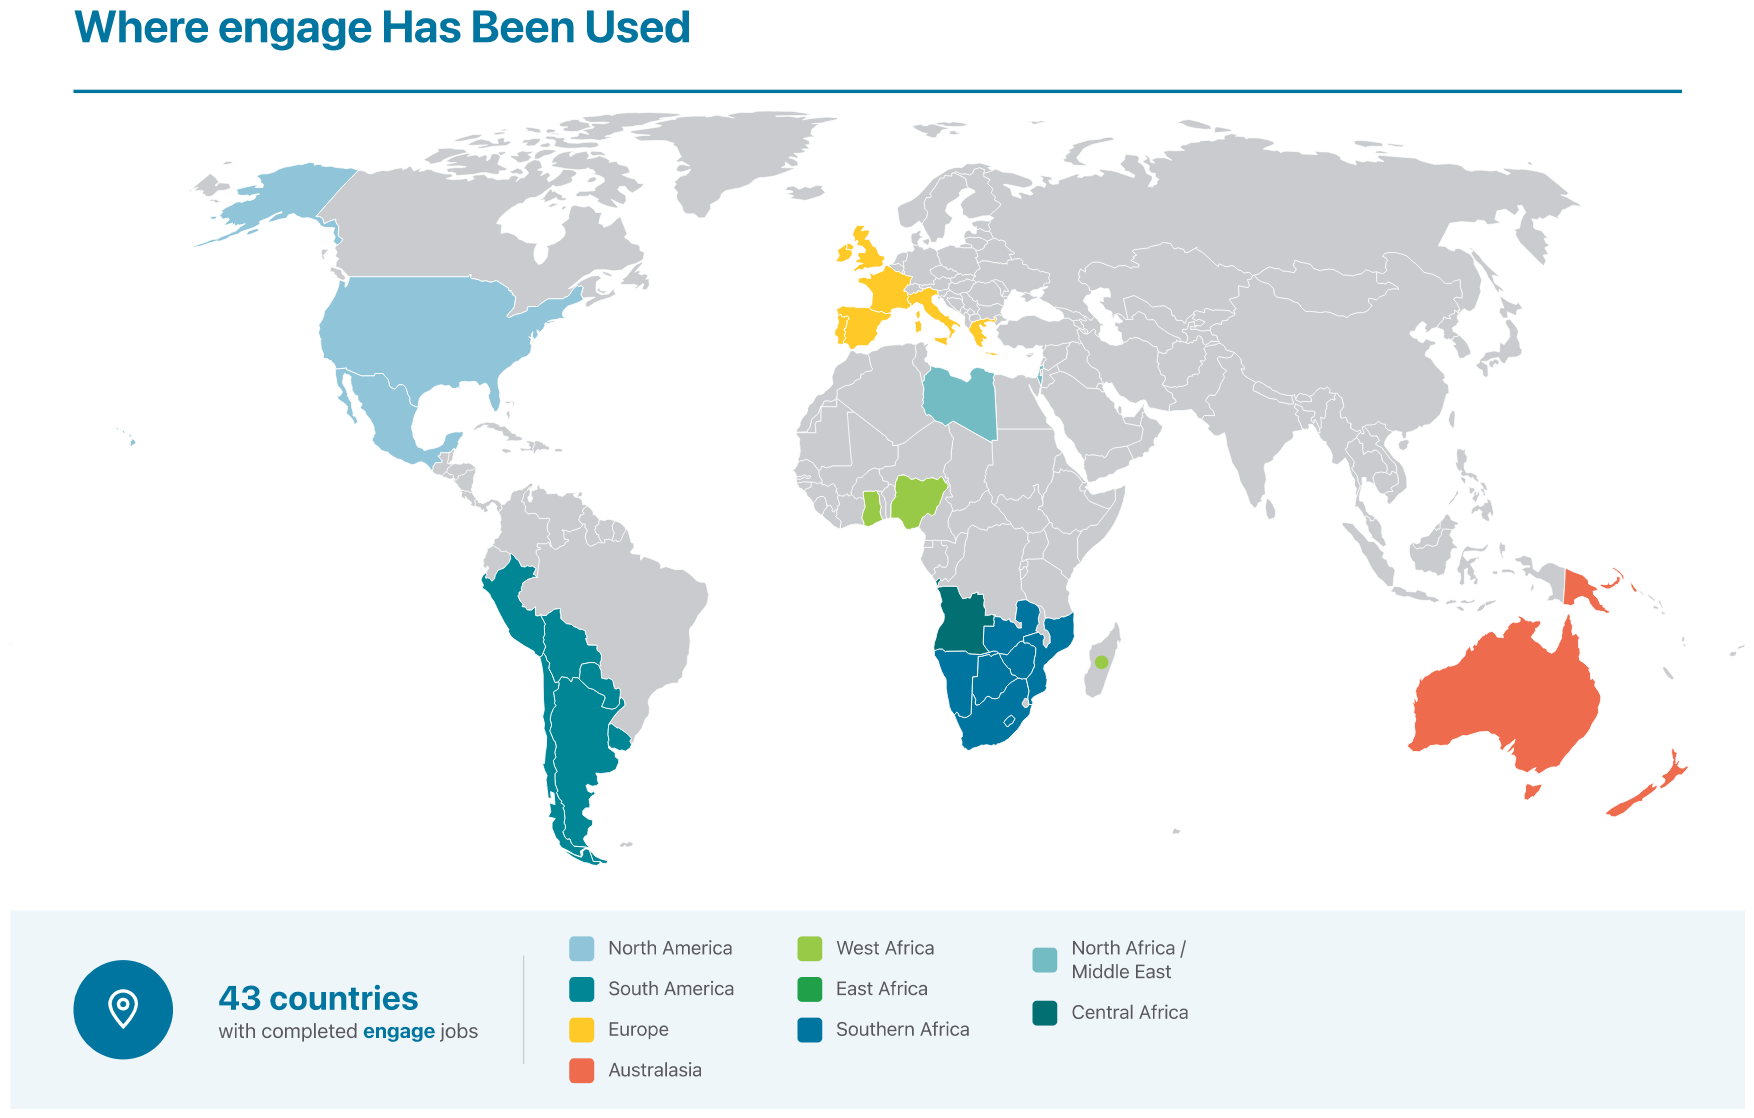
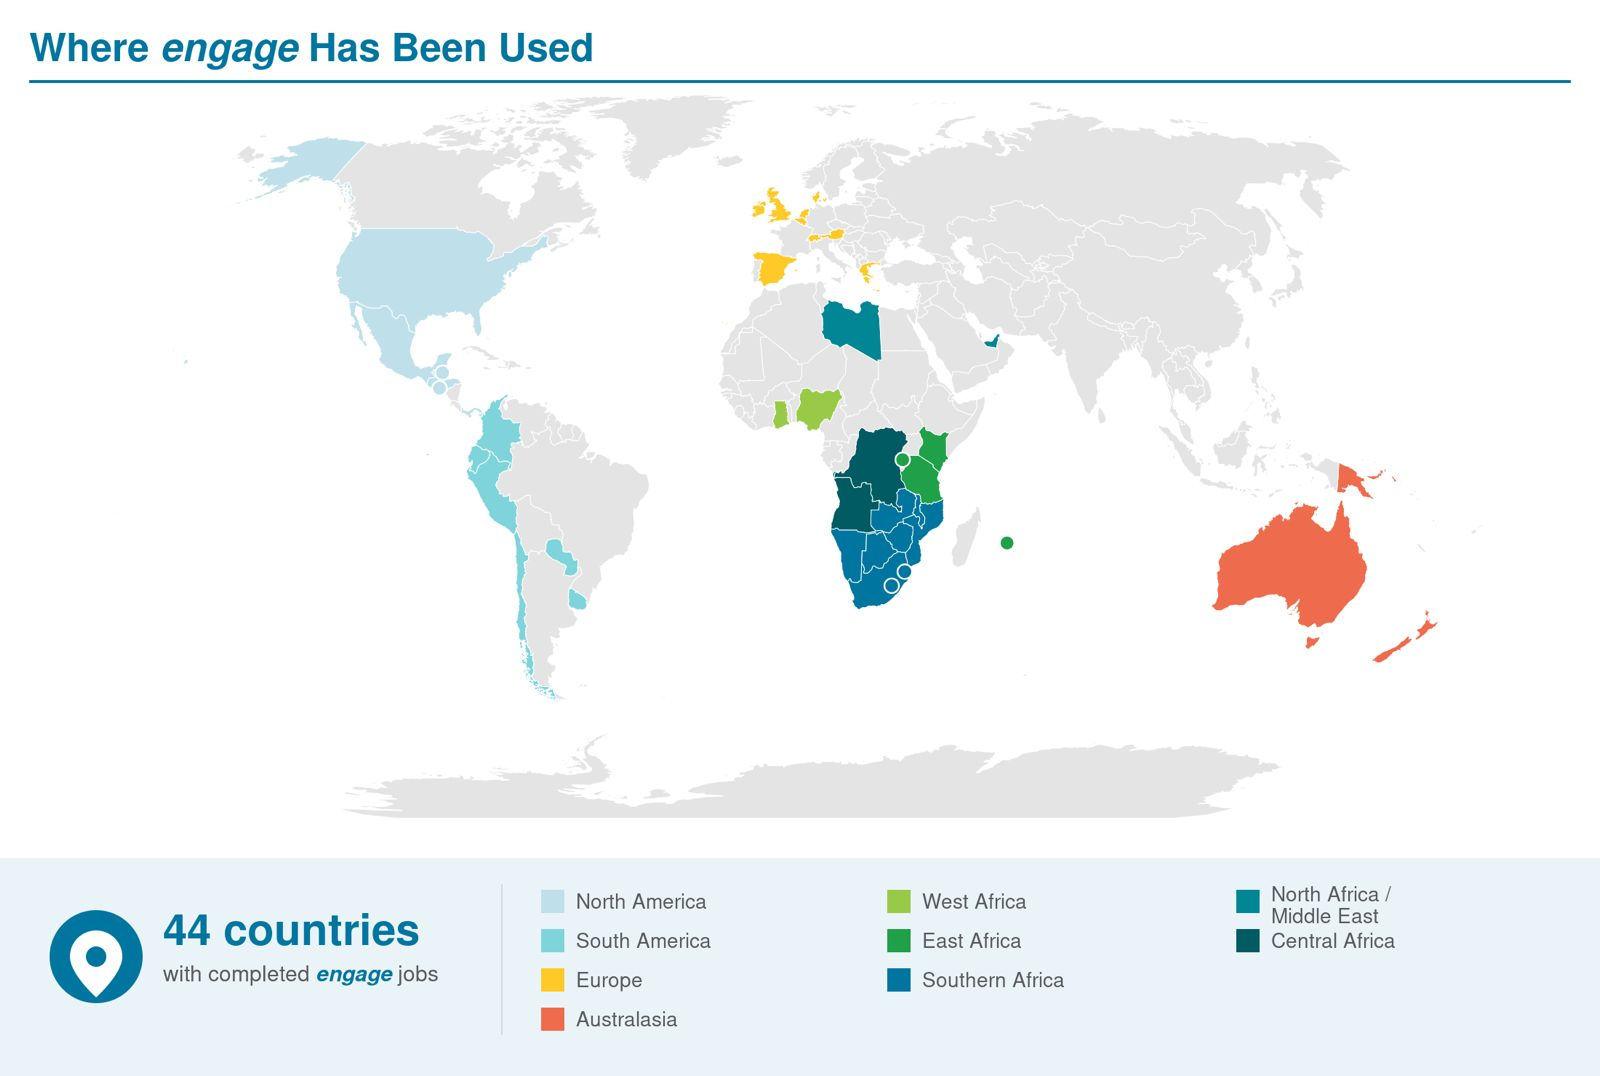
Add files via upload

diff --git a/src/assets/js/main.js b/src/assets/js/main.js
@@ -272,6 +272,36 @@ window.toggleGridCard = function (card) {
 // box stays as the fallback. Mirrors the webinar embed, but deferred rather
 // than eager.
 (function () {
+  // YouTube serves several thumbnail sizes; maxresdefault (1280x720) only
+  // exists for videos uploaded in HD, and 404s to a tiny 120x90 grey
+  // placeholder rather than failing outright, so we probe it with a real
+  // Image() load and check its width before trusting it. Falls through to
+  // sddefault (640x480), then the original hqdefault (480x360) as the
+  // last resort, so it always ends up with the best size that exists.
+  function setBestYouTubeThumb(btn, yid) {
+    var sizes = ["maxresdefault", "sddefault", "hqdefault"];
+
+    function tryNext(i) {
+      if (i >= sizes.length) return;
+      var src = "https://img.youtube.com/vi/" + yid + "/" + sizes[i] + ".jpg";
+      var probe = new Image();
+      probe.onload = function () {
+        // A missing maxresdefault/sddefault still loads, but as a
+        // 120x90 placeholder — anything wider means it's the real thing.
+        if (probe.naturalWidth > 120 || i === sizes.length - 1) {
+          btn.style.backgroundImage = "url('" + src + "')";
+          btn.classList.add("has-thumb");
+        } else {
+          tryNext(i + 1);
+        }
+      };
+      probe.onerror = function () { tryNext(i + 1); };
+      probe.src = src;
+    }
+
+    tryNext(0);
+  }
+
   var btn = document.querySelector(".hero-video-play");
   if (!btn) return;
 
@@ -283,9 +313,7 @@ window.toggleGridCard = function (card) {
     var yid = (url.match(/(?:v=|youtu\.be\/|embed\/|shorts\/)([A-Za-z0-9_-]{11})/) ||
       url.match(/^([A-Za-z0-9_-]{11})$/) || [])[1];
     if (yid) {
-      btn.style.backgroundImage =
-        "url('https://img.youtube.com/vi/" + yid + "/hqdefault.jpg')";
-      btn.classList.add("has-thumb");
+      setBestYouTubeThumb(btn, yid);
     }
   } else if (url) {
     var api =
